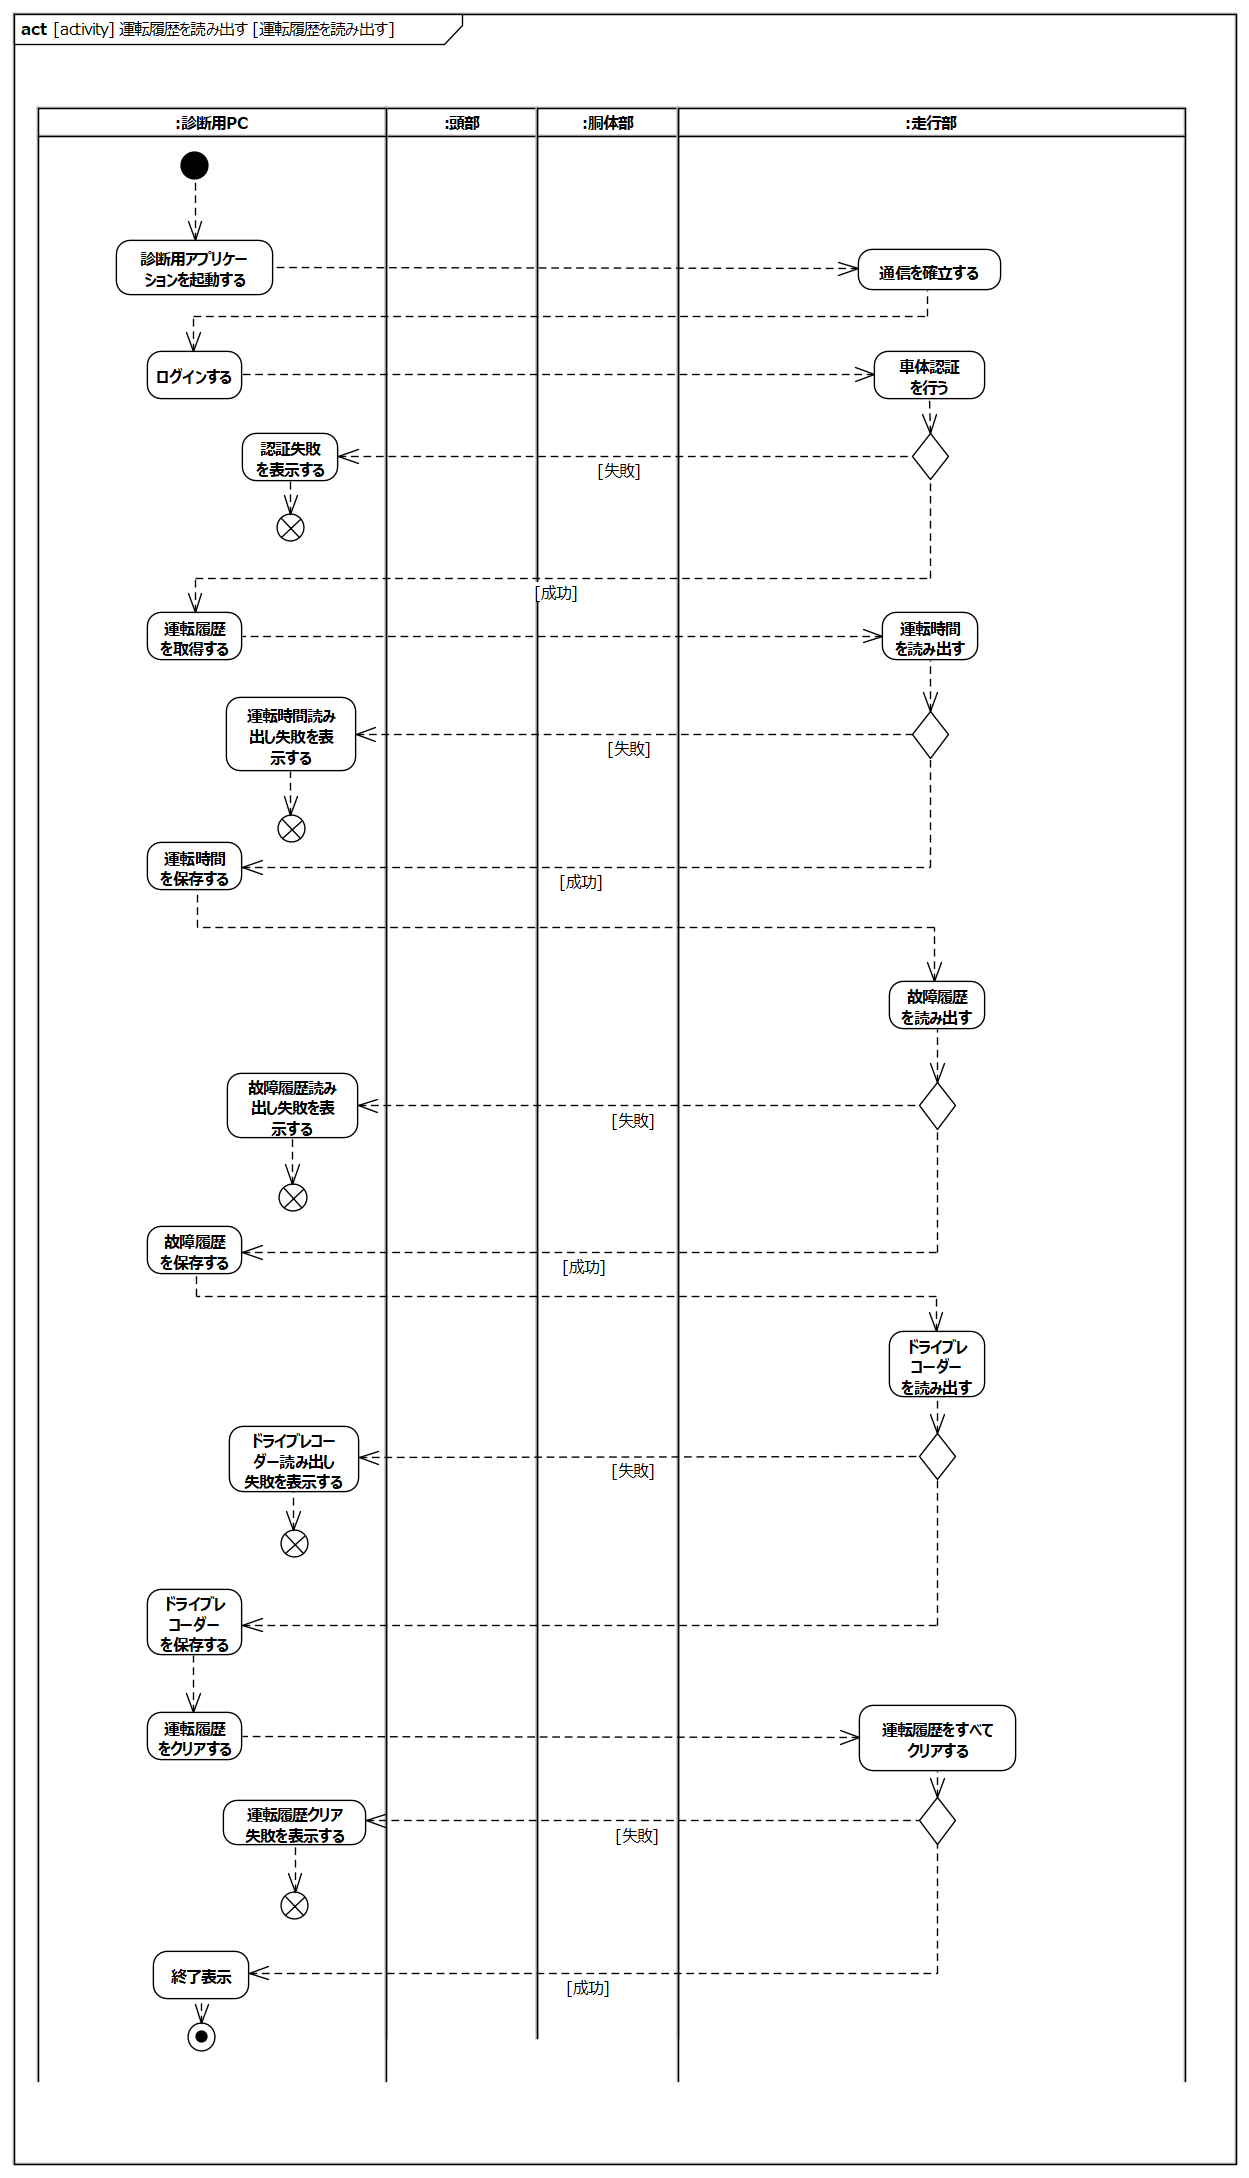
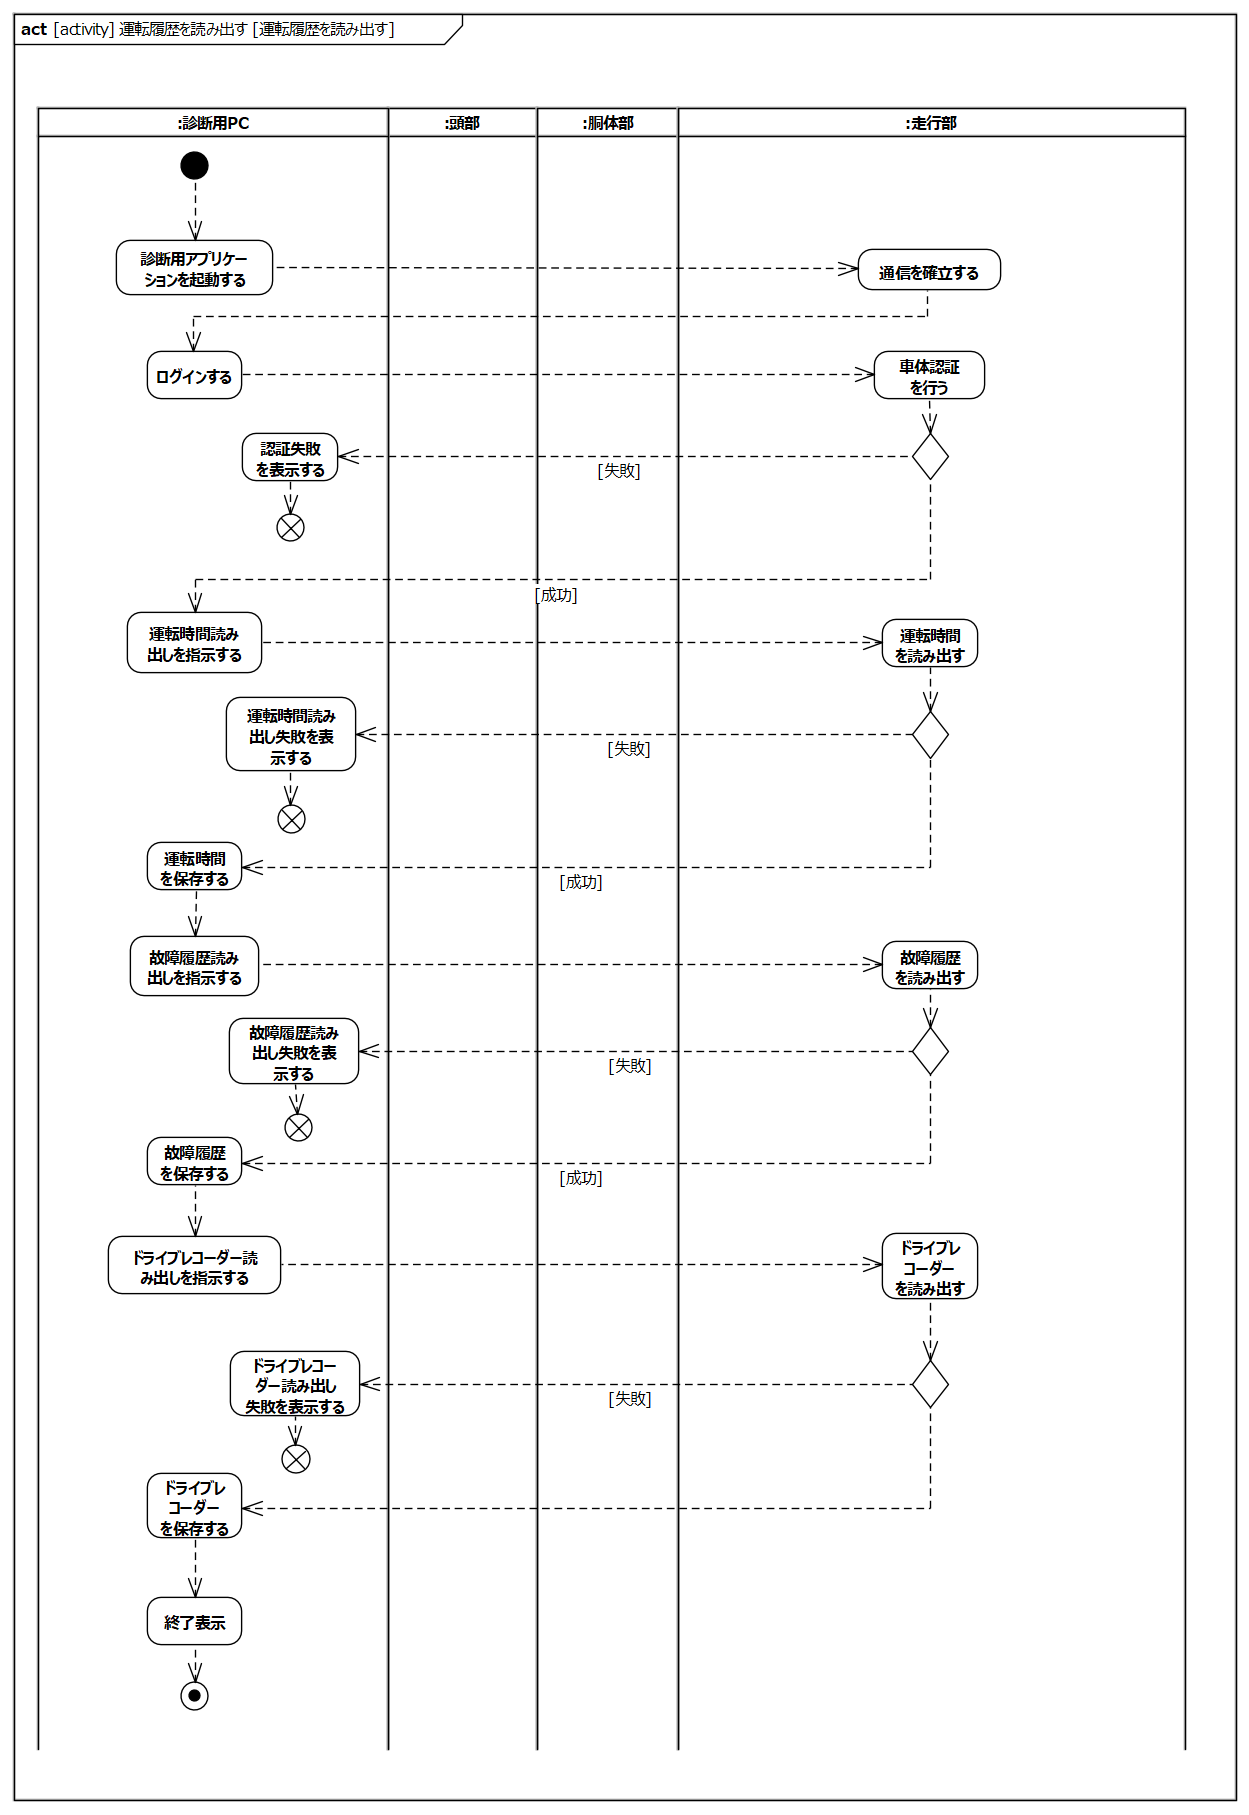
L1運転履歴クリア追加

diff --git a/requirements/requirement.md b/requirements/requirement.md
@@ -1734,7 +1734,7 @@ YES動作コマンドは首垂直動作に依存し、NO動作コマンドは首
 
 **ユースケース概要**
 
-診断PCに接続し、運転履歴を読み出す。また、運転履歴をクリアする。運転履歴は下記の通り。
+診断PCに接続し、運転履歴を読み出す。運転履歴は下記の通り。
  - 運転時間
  - 故障履歴
  - ドライブレコーダー
@@ -1747,7 +1747,7 @@ YES動作コマンドは首垂直動作に依存し、NO動作コマンドは首
 - 事前条件
     - テストモードで起動済みであること
 - 事後条件
-    - 運転履歴を読み出し、クリアしていること
+    - 運転履歴を読み出し診断用PCに保存すること
 - 備考
 	- なし
 
@@ -1762,7 +1762,41 @@ YES動作コマンドは首垂直動作に依存し、NO動作コマンドは首
 |走行部は運転時間を読み出す||
 |走行部は故障履歴を読み出す||
 |走行部はドライブレコーダーを読み出す||
-|走行部は運転履歴をすべてクリアする||
+
+<div style="page-break-before:always"></div>
+
+## 運転履歴をクリアする
+
+**ユースケース概要**
+
+診断PCに接続し、運転履歴をクリアする。運転履歴は下記の通り。
+ - 運転時間
+ - 故障履歴
+ - ドライブレコーダー
+
+
+**テレプレゼンスロボット内部の処理**
+
+![](.images/activity/clear_drive_history.png)
+
+- 事前条件
+    - テストモードで起動済みであること
+- 事後条件
+    - 運転履歴をクリアしていること
+- 備考
+	- なし
+
+**要求抽出**
+
+上記の内部の処理を元に要求を抽出する。
+
+|要求|備考|
+|:---|:---|
+|走行部は診断用PCの診断アプリケーションと通信を確立する|読み出し時と同じ|
+|走行部は車体認証を行う|読み出し時と同じ|
+|走行部は運転時間をクリアする||
+|走行部は故障履歴をクリアする||
+|走行部はドライブレコーダーをクリアする||
 
 <!-- <div style="page-break-before:always"></div>
 
